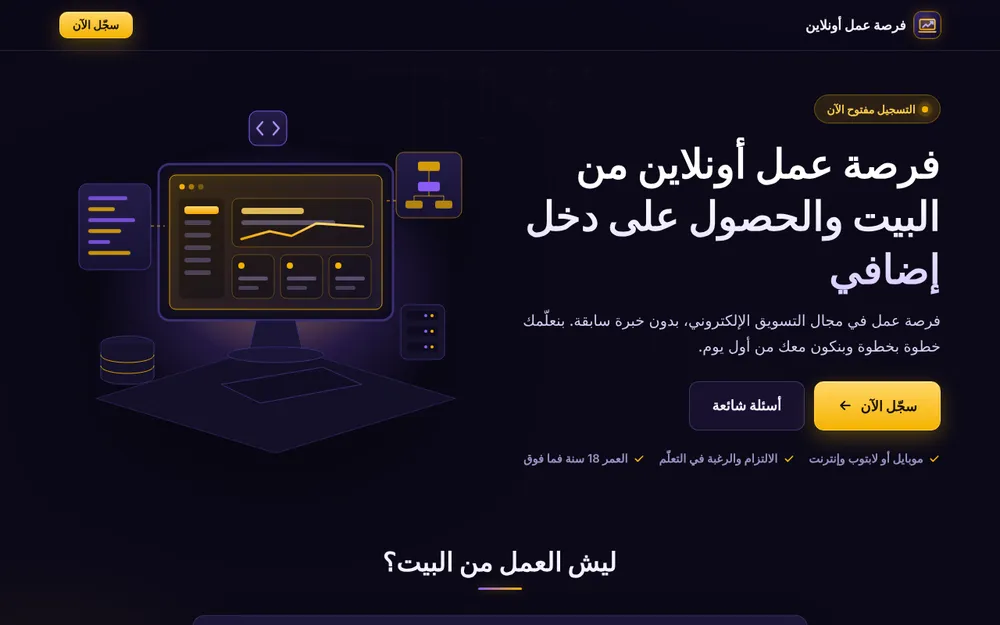
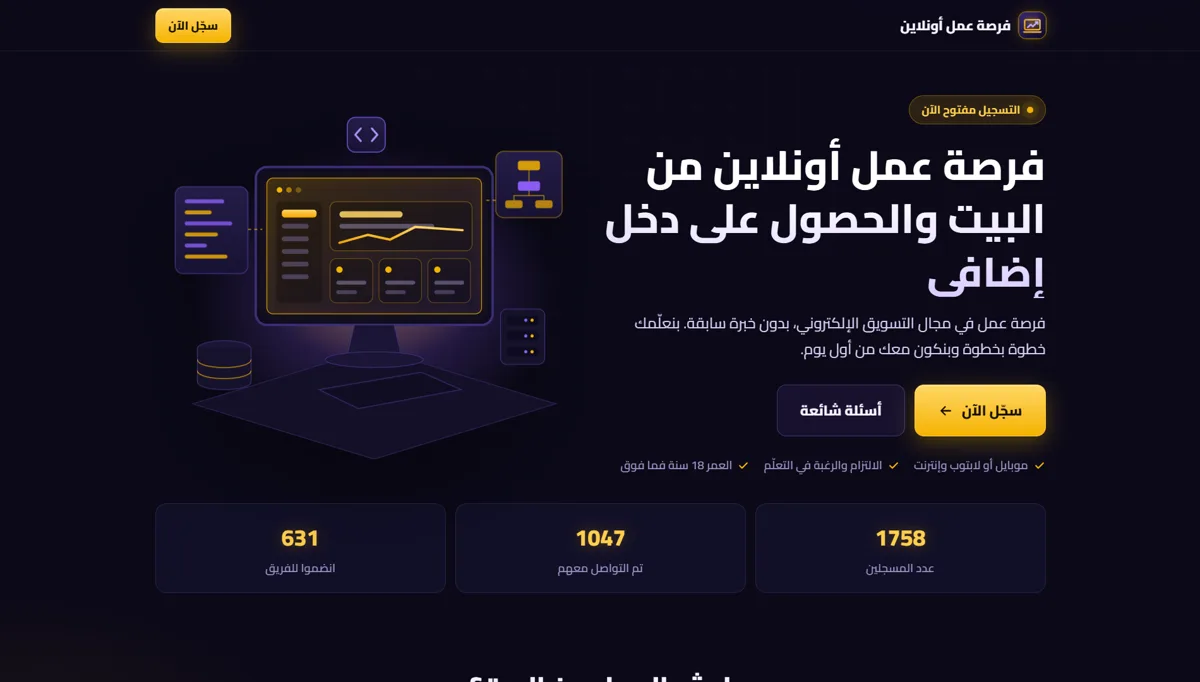
osama-cv: new job platform screenshots and real registration figures
Claude-Session: https://claude.ai/code/session_01T1VBNedS4tteuhL4P2bqqw

diff --git a/osama-cv/src/i18n.js b/osama-cv/src/i18n.js
@@ -28,7 +28,7 @@ export const T = {
         "I'm a full-stack web developer with an engineering background in Network & Mobile Technology from Al-Aqsa University, Gaza. That foundation in networks and systems shapes how I build: everything I ship is designed to be reliable, connected and ready for real traffic.",
         "I own the entire journey, from the first sketch to the live product: UI design, front-end, databases, integrations, automation and deployment. My largest system today is a complete business platform of more than 16,000 lines of code: a sign-up funnel, a 30+ screen admin dashboard, an online store and WhatsApp & Telegram automation, all built and maintained by me.",
       ],
-      stats: [["16K+", "Lines of Code", "In a single live platform"], ["30+", "Dashboard Screens", "Built and maintained"], ["5", "Live Products", "Published and running"], ["24/7", "Automation", "Self-running systems"]],
+      stats: [["1,750+", "Registrations", "Through my job platform"], ["16K+", "Lines of Code", "In a single live platform"], ["30+", "Dashboard Screens", "Built and maintained"], ["5", "Live Products", "Published and running"]],
     },
     process: {
       kicker: "How I Work",
@@ -63,9 +63,9 @@ export const T = {
         {
           key: "job",
           title: "Online Job Platform",
-          short: "A complete recruitment funnel for remote job opportunities, from landing page to sign-up to follow-up.",
+          short: "A complete recruitment funnel for remote jobs: 1,750+ registrations and 630+ people joined the team.",
           long: "A full recruitment platform for remote job opportunities. Visitors land on a persuasive Arabic page, read the FAQ and register through a validated form. Every registration flows instantly into the admin dashboard, where the team follows up through a structured sales funnel.",
-          features: ["Persuasive, responsive Arabic landing page", "Validated sign-up form with instant storage", "Sales funnel: conversations, goals and ready replies", "Visitor tracking and traffic-source analysis"],
+          features: ["1,750+ registrations so far", "1,000+ candidates contacted", "630+ joined the team", "Two-step sign-up form with instant storage", "Sales funnel: conversations, goals and ready replies", "Visitor tracking and traffic-source analysis"],
           tags: ["React", "Vite", "Firebase", "Supabase"],
         },
         {
@@ -171,7 +171,7 @@ export const T = {
         "أنا مطوّر ويب متكامل، أحمل خلفية هندسية في تكنولوجيا الشبكات والهواتف المحمولة من جامعة الأقصى في غزة. وقد صاغ هذا الأساس في الشبكات والأنظمة طريقتي في البناء: فكل ما أطلقه مصمَّم ليكون موثوقاً ومترابطاً وجاهزاً لاستقبال زوّار حقيقيين.",
         "أتولّى الرحلة كاملة من الفكرة الأولى حتى المنتج المنشور: تصميم الواجهات، والبرمجة الأمامية، وقواعد البيانات، والتكاملات، والأتمتة، والنشر. وأكبر أنظمتي اليوم منصّة أعمال متكاملة تتجاوز 16 ألف سطر برمجي، تضمّ مسار تسجيل، ولوحة تحكم بأكثر من 30 شاشة، ومتجراً إلكترونياً، وأتمتة لواتساب وتيليجرام، وقد بنيتُها وأتولّى صيانتها بنفسي.",
       ],
-      stats: [["+16K", "سطر برمجي", "في منصّة واحدة منشورة"], ["+30", "شاشة تحكم", "بنيتُها وأتولّى صيانتها"], ["5", "منتجات منشورة", "تعمل على الإنترنت"], ["24/7", "أتمتة", "أنظمة تعمل ذاتياً"]],
+      stats: [["+1750", "تسجيلاً", "عبر منصّة التوظيف"], ["+16K", "سطر برمجي", "في منصّة واحدة منشورة"], ["+30", "شاشة تحكم", "بنيتُها وأتولّى صيانتها"], ["5", "منتجات منشورة", "تعمل على الإنترنت"]],
     },
     process: {
       kicker: "أسلوب عملي",
@@ -206,9 +206,9 @@ export const T = {
         {
           key: "job",
           title: "منصّة فرص العمل عن بُعد",
-          short: "مسار توظيف متكامل لفرص العمل عن بُعد، من صفحة الهبوط إلى التسجيل إلى المتابعة.",
+          short: "مسار توظيف متكامل لفرص العمل عن بُعد: أكثر من 1750 تسجيلاً، وانضمام أكثر من 630 شخصاً إلى الفريق.",
           long: "منصّة توظيف متكاملة لفرص العمل عن بُعد؛ يصل الزائر إلى صفحة عربية مقنعة، ويطّلع على الأسئلة الشائعة، ثم يسجّل عبر نموذج يتحقّق من البيانات. وينتقل كل تسجيل فوراً إلى لوحة التحكم، حيث يتابعه الفريق عبر مسار مبيعات منظّم.",
-          features: ["صفحة هبوط عربية مقنعة ومتجاوبة", "نموذج تسجيل مع التحقق والحفظ الفوري", "مسار مبيعات: محادثات وأهداف وردود جاهزة", "تتبّع الزوّار وتحليل مصادر الزيارات"],
+          features: ["أكثر من 1750 تسجيلاً حتى الآن", "التواصل مع أكثر من 1000 مرشّح", "انضمام أكثر من 630 شخصاً إلى الفريق", "نموذج تسجيل من خطوتين مع الحفظ الفوري", "مسار مبيعات: محادثات وأهداف وردود جاهزة", "تتبّع الزوّار وتحليل مصادر الزيارات"],
           tags: ["React", "Vite", "Firebase", "Supabase"],
         },
         {

diff --git a/osama-cv/src/main.js b/osama-cv/src/main.js
@@ -16,7 +16,7 @@ const reduced = matchMedia("(prefers-reduced-motion: reduce)").matches;
 const fine = matchMedia("(hover: hover) and (pointer: fine)").matches;
 const app = document.getElementById("app");
 const IMG = {
-  job: ["./p-job.webp", "./work/job-2.webp"],
+  job: ["./p-job.webp", "./work/job-3.webp", "./work/job-2.webp"],
   dash: ["./work/dash-1.webp", "./work/dash-2.webp"],
   store: ["./work/store-1.webp", "./work/store-2.webp", "./work/store-3.webp"],
   joudi: ["./p-joudi.webp"],
